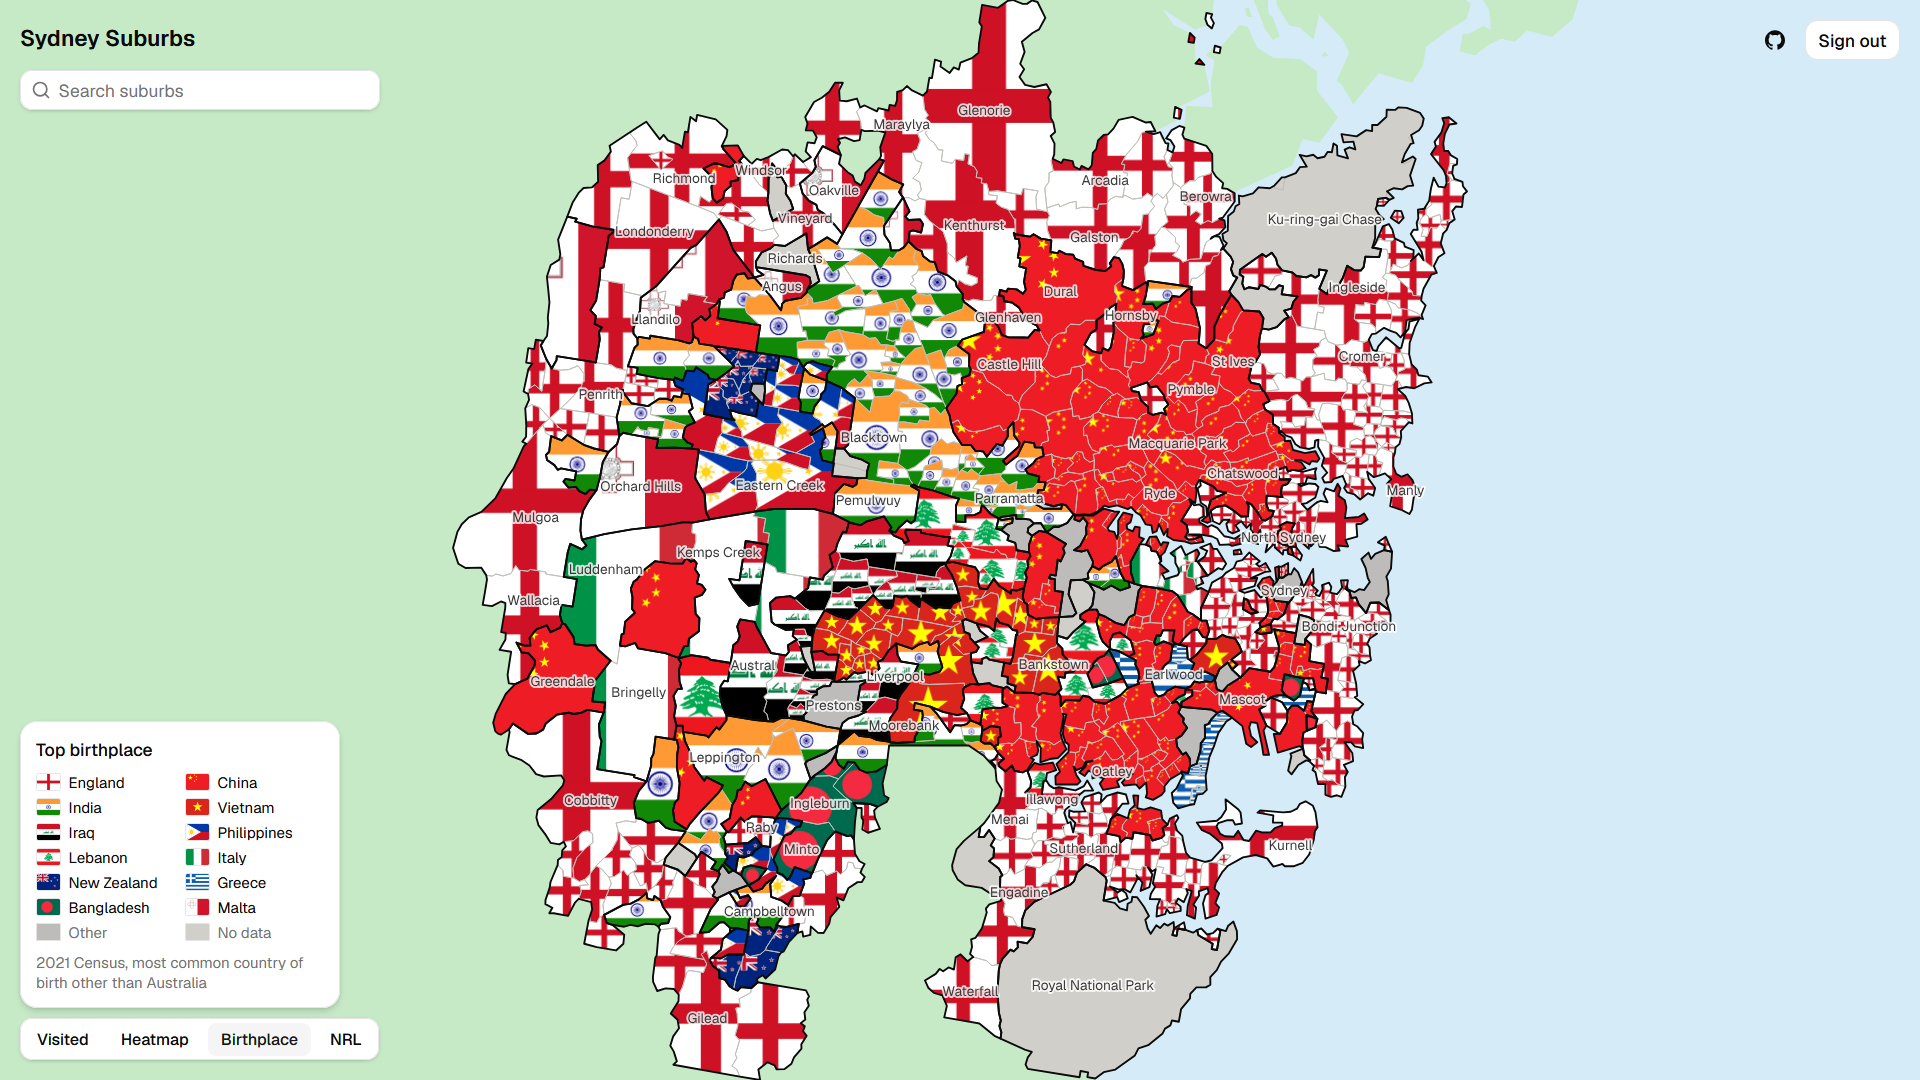
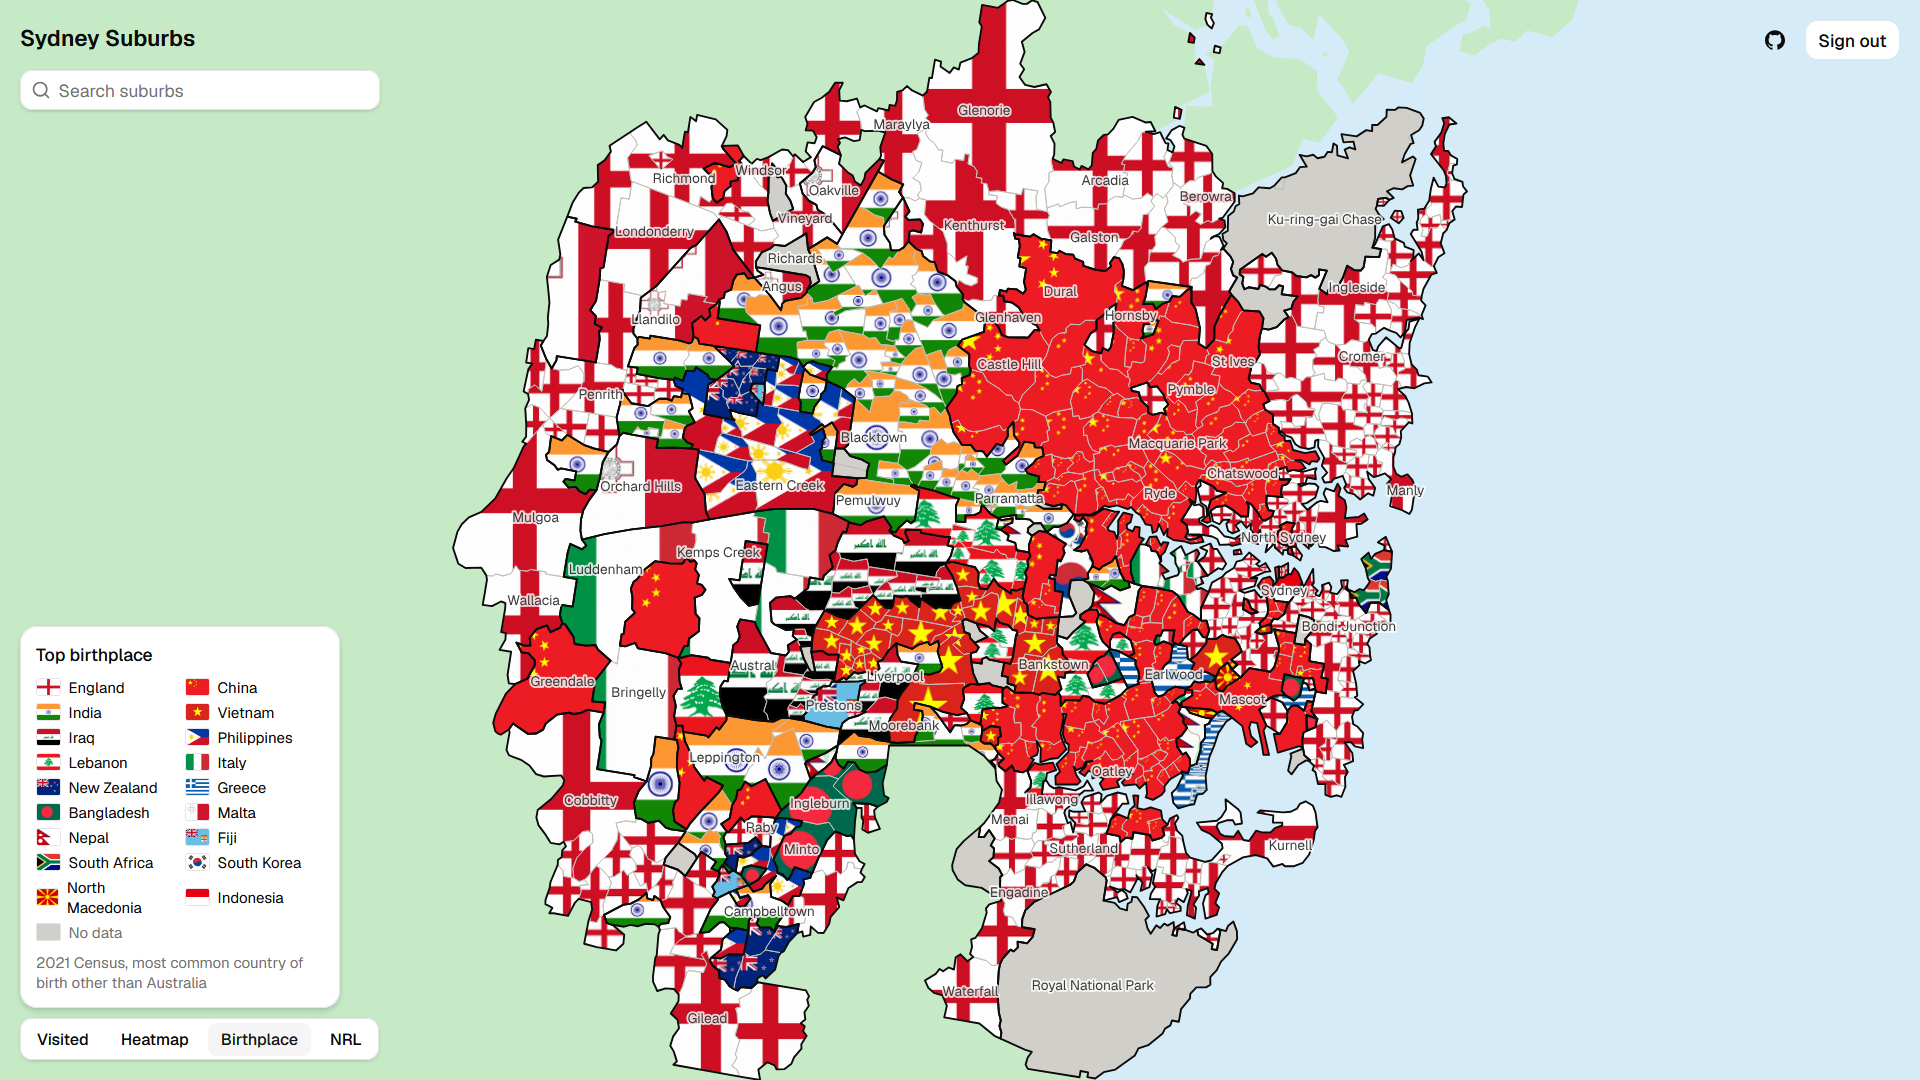
fix: add missing countries

diff --git a/src/data/birthplace-countries.ts b/src/data/birthplace-countries.ts
@@ -1,15 +1,21 @@
 import bangladeshFlag from "flag-icons/flags/4x3/bd.svg"
 import chinaFlag from "flag-icons/flags/4x3/cn.svg"
+import fijiFlag from "flag-icons/flags/4x3/fj.svg"
 import englandFlag from "flag-icons/flags/4x3/gb-eng.svg"
 import greeceFlag from "flag-icons/flags/4x3/gr.svg"
+import indonesiaFlag from "flag-icons/flags/4x3/id.svg"
 import indiaFlag from "flag-icons/flags/4x3/in.svg"
 import iraqFlag from "flag-icons/flags/4x3/iq.svg"
 import italyFlag from "flag-icons/flags/4x3/it.svg"
+import southKoreaFlag from "flag-icons/flags/4x3/kr.svg"
 import lebanonFlag from "flag-icons/flags/4x3/lb.svg"
+import northMacedoniaFlag from "flag-icons/flags/4x3/mk.svg"
 import maltaFlag from "flag-icons/flags/4x3/mt.svg"
+import nepalFlag from "flag-icons/flags/4x3/np.svg"
 import newZealandFlag from "flag-icons/flags/4x3/nz.svg"
 import philippinesFlag from "flag-icons/flags/4x3/ph.svg"
 import vietnamFlag from "flag-icons/flags/4x3/vn.svg"
+import southAfricaFlag from "flag-icons/flags/4x3/za.svg"
 
 export interface CountryColour {
   key: string
@@ -25,7 +31,7 @@ export interface Country {
   flag: string
 }
 
-// The countries that top enough suburbs to get a flag, most suburbs first.
+// Every country that tops at least one suburb, most suburbs first.
 export const COUNTRIES: readonly Country[] = [
   {
     key: "england",
@@ -86,6 +92,36 @@ export const COUNTRIES: readonly Country[] = [
     key: "malta",
     label: "Malta",
     flag: maltaFlag,
+  },
+  {
+    key: "nepal",
+    label: "Nepal",
+    flag: nepalFlag,
+  },
+  {
+    key: "fiji",
+    label: "Fiji",
+    flag: fijiFlag,
+  },
+  {
+    key: "south-africa",
+    label: "South Africa",
+    flag: southAfricaFlag,
+  },
+  {
+    key: "south-korea",
+    label: "South Korea",
+    flag: southKoreaFlag,
+  },
+  {
+    key: "north-macedonia",
+    label: "North Macedonia",
+    flag: northMacedoniaFlag,
+  },
+  {
+    key: "indonesia",
+    label: "Indonesia",
+    flag: indonesiaFlag,
   },
 ]
 export const OTHER_COUNTRY: CountryColour = {

diff --git a/src/data/birthplace-countries.test.ts b/src/data/birthplace-countries.test.ts
@@ -1,0 +1,22 @@
+import { readFileSync } from "node:fs"
+
+import { describe, expect, it } from "vitest"
+
+import type { SuburbFactsFile } from "@/types/suburb-facts"
+
+import { COUNTRIES } from "./birthplace-countries"
+
+const facts = JSON.parse(
+  readFileSync("src/data/suburb-facts.json", "utf-8"),
+) as SuburbFactsFile
+
+describe("birthplace countries", () => {
+  // The key has no "Other" entry, so every top country needs a flag.
+  it("has a flag for every suburb's top birthplace", () => {
+    const labels = new Set(COUNTRIES.map((c) => c.label))
+    const missing = Object.values(facts)
+      .map((f) => f.topBirthplace?.country)
+      .filter((c) => c !== undefined && !labels.has(c))
+    expect([...new Set(missing)]).toStrictEqual([])
+  })
+})

diff --git a/src/components/birthplace-legend.tsx b/src/components/birthplace-legend.tsx
@@ -4,7 +4,6 @@ import {
   COUNTRIES,
   type CountryColour,
   NO_BIRTHPLACE,
-  OTHER_COUNTRY,
 } from "@/data/birthplace-countries"
 import { cn } from "@/lib/utils"
 
@@ -31,7 +30,6 @@ export function BirthplaceLegend() {
             </li>
           )}
         </For>
-        <SwatchItem colour={OTHER_COUNTRY} />
         <SwatchItem colour={NO_BIRTHPLACE} />
       </ul>
       <p class="text-xs text-muted-foreground">
